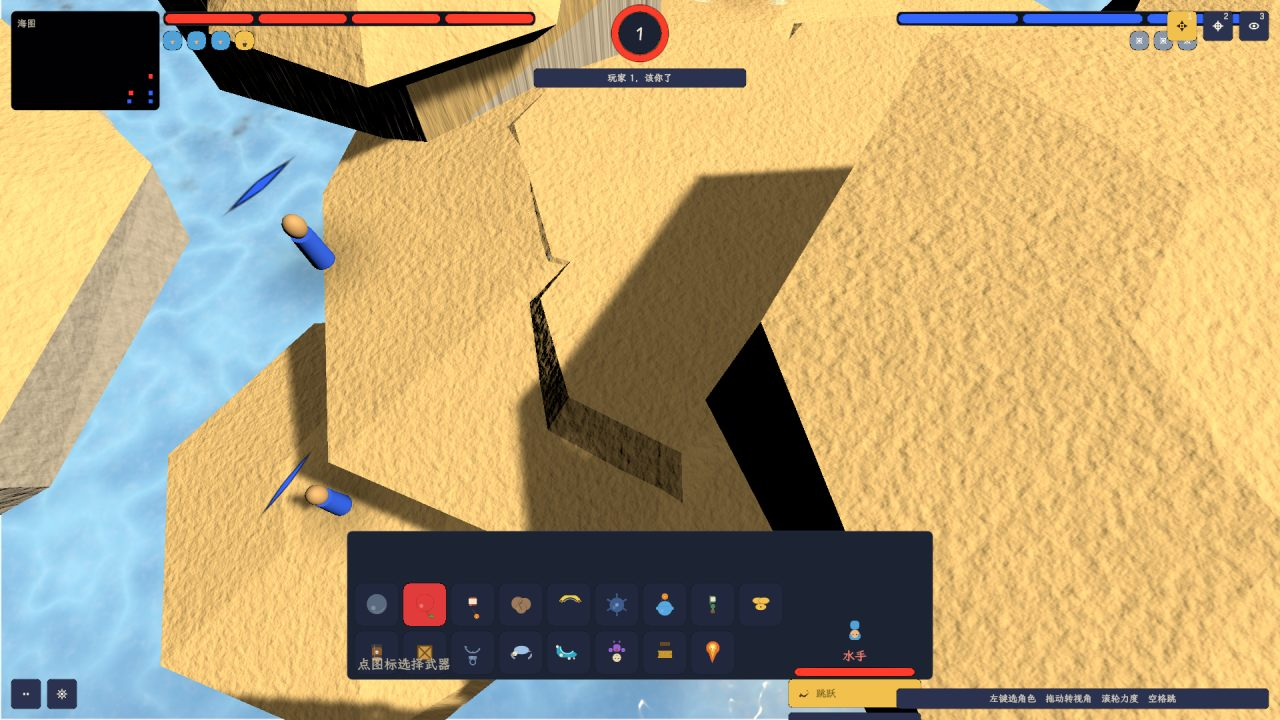
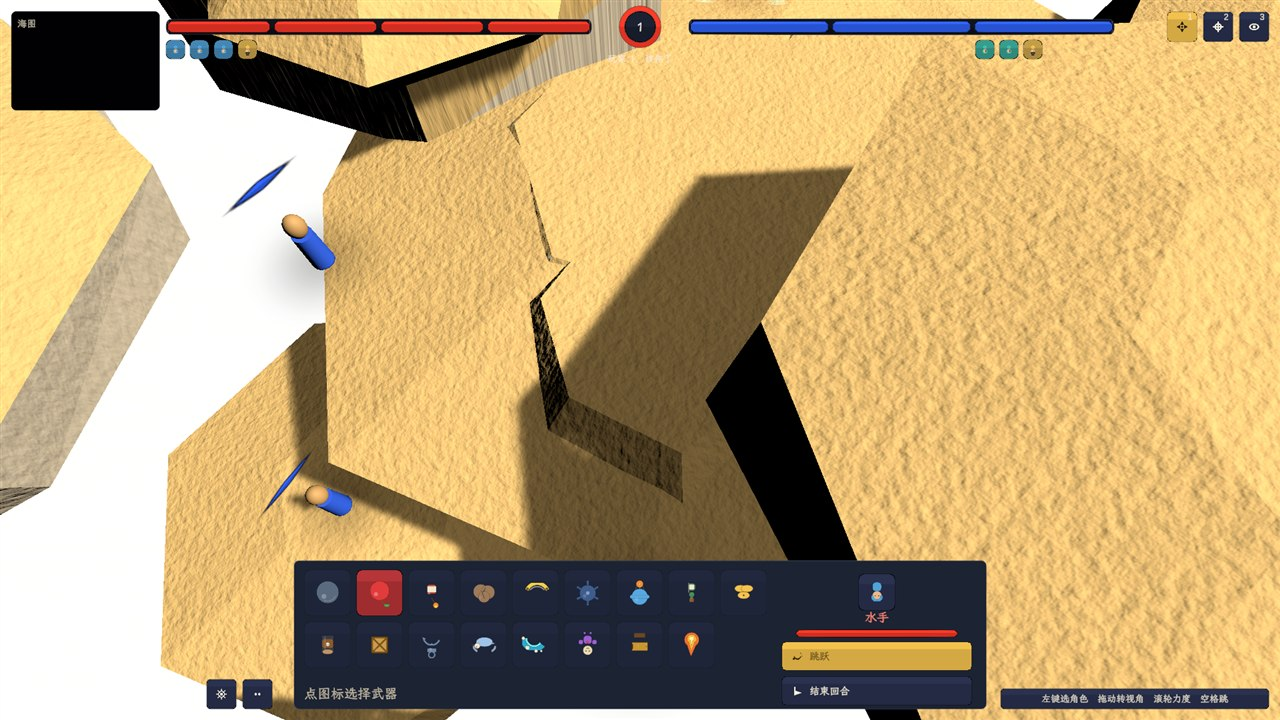
docs(ui): 设计语言文档（夜海宝箱·哈迪斯机制解构+字体规范+组件规格+管线闭环）+ HUD r6/陈列页档案入库

Changed region(s): [[0.0, 0.0, 1.0, 1.0]]

diff --git a/docs/设计/UI设计语言.md b/docs/设计/UI设计语言.md
@@ -1,0 +1,231 @@
+# UI 设计语言 · 多彩卡通（夜海宝箱）
+
+> 视觉系统的设计意图与使用纪律。所有常量的**代码真相源**是
+> `pirate-crew/Assets/Scripts/UI/Skin/UiSkin.cs`（Token）与
+> `CartoonSpriteFactory.cs`（皮肤算法），本文记录"为什么这么设计"；
+> 数值以代码为准。组件真实长相的回归自检见组件陈列页（`UiGalleryPage`，
+> 出图机位 `ui-gallery` / `ui-gallery-icons`）。
+>
+> 姊妹篇：stick-world（game-2）的 `docs/设计/UI/01-设计语言.md`——两边共享
+> "Token 单源 / 变体表 / zone 布局表 / 陈列页自检"的机制骨架，视觉语言各自独立。
+
+---
+
+## 一、视觉哲学
+
+### 1.0 多彩卡通是全局唯一皮肤
+
+主菜单、选关、船员管理与战斗 HUD 统一走**同一套皮肤栈**
+（`UiKit` 工厂 → `CartoonSpriteFactory` 平色皮肤 → `UiSkin` Token）。
+任何界面不得出现第二套材质语言（旧木板 / 羊皮纸 / 玻璃拟态栈已退役清单化）。
+**技术保证**：Editor 装配与运行时动态件共用同一工厂，皮肤/字号/动效单轨。
+
+### 1.1 夜海宝箱（核心比喻）
+
+界面的底是一口**夜海中的沉箱**：深靛蓝的近黑（`InkDeep` #1C2333）,
+里面装着宝石——17 种武器色、7 种职业色在高饱和度下发光,金色是箱体上的黄铜锚点。
+这是对《哈迪斯》UI 机制的解构与转译,哈迪斯"多彩而不乱"靠四件事:
+
+| 哈迪斯的机制 | 本项目的转译 |
+| --- | --- |
+| **色即身份**:每个神/祝福一个专属色,玩家 0.1 秒读色识物,色彩是信息压缩 | 17 武器色 / 7 职业色(内容色板),图标格底、静物、pips 同色系 |
+| **深底策略**:背景近乎纯深,彩色图标像宝珠宝石般跳出——对比让多彩成立 | `InkDeep` 夜海靛蓝做全部容器底,内容色不与其争明度 |
+| **金线统一**:无论多少种色相,金色细线作为"系统色"贯穿全部框架,多彩而不散 | `Gold` 是唯一强调色(§1.2),tintable 件自带 1px 同色系深边,全件同语言 |
+| **装饰即功能**:Art Deco 边框不是装饰,是信息容器(血条框/槽位框) | 凹槽构造线、端箍、徽章环(§3.3)——装饰都在"容器"语义上 |
+
+### 1.2 一个强调色
+
+全套 UI 只有**一个操作强调色:金**(`Gold` #F2C14E)。用于且仅用于:
+
+| 用途 | 例子 |
+| --- | --- |
+| 主行动点 | 投掷自爆 / 继续 / 再来一局 / 确认 |
+| 选中态 | 已装备武器格金框、当前模式钮 |
+| 仪式感数值 | 结算星级、武器名 |
+
+**内容色 ≠ 操作色**:队色(红/蓝)、武器色、职业色是"画在画面里的颜色",
+只上图形与图标底,**永不出现在操作按钮底上**。强调色滥发会让玩家找不到
+"该点哪"——多彩属于世界,金色属于操作。
+
+### 1.3 图标优先,文字退位
+
+原版 Flash 逆向基准就是全图标操作(跳跃/攻击皆图标)。文字只留四类:
+界面标题、结算横幅、一条操作提示、无障碍兜底(武器名在选中时显示一次)。
+**图形规范**:非文字元素对比度 ≥3:1,文字 ≥4.5:1(WCAG 2.1,测试断言锁死)。
+
+### 1.4 拟物极度抽离 + 两段卡通明暗
+
+不追求材质真实感。材质暗示只用**一道线**的程度,且只在有构造语义处用:
+
+- **两段卡通明暗**(全部件):顶亮带 + 主段略暗的灰度阶梯,乘色后保留——
+  糖豆人式"上受光"卡通体积,不用渐变、不破坏平涂纪律;
+- **凹槽构造线**(血条族):顶 1px 反光、底 30% 暗带、两端 2px 端箍——
+  木桶箍的极度抽象,凹槽是"被箍住的容器",不是一条黑缝;
+- 禁止:写实纹理、投影、内外发光、斜纹大面积铺底。
+
+---
+
+## 二、色彩系统
+
+### 2.1 基底(三档语义,同屏不得出现第四种近黑)
+
+| Token | 值 | 语义 |
+| --- | --- | --- |
+| `InkDeep` | #1C2333 | **独立容器底**:面板/武器面板/小地图/模态卡片 |
+| `InkSoft` | #2A3350 | **嵌件与浮空控件底**:chip、图标钮、pips 边框、提示条 |
+| `BarTrackInk` | #10141E | **凹槽底**(有填充压顶时):血条族专用 |
+
+### 2.2 文字与强调
+
+| Token | 值 | 用途 | 对 InkDeep 对比度 |
+| --- | --- | --- | --- |
+| `TextOnInk` | #F5EFE0 | 正文/按钮字 | 13.7:1 |
+| `TextDim` | #CFC6B0 | 辅助/角标 | 9.1:1 |
+| `Gold` | #F2C14E | 唯一强调色(§1.2) | 9.4:1 |
+| `InkOnGold` | #2A1D0E | 金底上的字 | — |
+| `Danger` | #8A1F1F | 破坏性动作底 | 白字 8.0:1 |
+
+### 2.3 队色(内容色的特例:唯一允许成对出现在 HUD 结构上的色)
+
+`TeamRed` #FF3A2A / `TeamBlue` #3366FF(图形),文字场景用提亮档
+`TeamRedText` #FF8A7A(6.9:1) / `TeamBlueText` #7FB0FF(7.0:1)。
+
+### 2.4 内容色板(色即身份的落点)
+
+- **武器 17 色**(`UiSkin.WeaponColor`):图标格底与静物主色共用一套——
+  UI 与图标天然同色系,如樱桃弹 #E23B3B、香蕉黄 #F0D048、巫毒紫 #9A5FD0;
+- **职业 7 色**(`UiSkin.CrewColor`):水手天蓝 / 炮手橙 / 狙击青 / 钩子黄铜 /
+  纵火火红 / 骷髅骨白 / 船长金;
+- 纪律:饱和度 ≥0.28(多彩下限,测试锁死)、彼此可分、不上操作按钮。
+
+---
+
+## 三、形状与装饰语言
+
+### 3.1 圆角:两档 + 全圆
+
+| 档 | Token | 值 | 用途 |
+| --- | --- | --- | --- |
+| 容器档 | `RadiusPanel` | 8 | 面板/大图标格/小地图 |
+| 控件档 | `RadiusChip` | 6 | 按钮/chip/提示条 |
+| 全圆 | — | 半径=半高 | 仅血条填充(Pill)与圆件(徽章/圆点) |
+
+### 3.2 细边
+
+1px 细边(`StrokeThin`)。tintable 件烘 0.16 灰深边(乘色后=同色系深边);
+固定色件边线比底亮一档。**无粗描边、无贴纸硬投影**。
+
+### 3.3 构件修饰语言(2026-09-19 定案,血条是标志件)
+
+| 件 | 修饰 | 语义 |
+| --- | --- | --- |
+| 全部 tintable 件 | 顶亮带 32% 高 / 主段 0.88(Pill 0.82) | 上受光的卡通体积 |
+| 血条凹槽 BarTrack | 顶 1px 反光 + 底 30% 暗带 + 两端 2px 端箍 | "被箍住的容器" |
+| 面板 PanelInk | 上沿 1px 微光 6% | 与凹槽顶反光同语言 |
+
+**切片安全约束**:修饰只依赖垂直方向或落在九宫格 border 区,任意拉伸形态
+稳定——依赖水平方向的纹理(斜纹等)会被中段拉伸抹除,一律不做。
+
+### 3.4 间距系统
+
+`Safe`(屏缘安全距)=16,`PanelPadding`=14,`Gap`=12;件内间距只取
+4 / 6 / 8 / 12 / 16 五档。
+
+---
+
+## 四、字体规范
+
+### 4.1 字族分工(三族,与 stick-world 同源的开源字库)
+
+| 族 | 字体 | 授权 | 角色 |
+| --- | --- | --- | --- |
+| 标题 | StickHand(站酷快乐体骨架+确定性扰动,`tools/fonts/gen_hand_font.py`) | OFL 1.1 | 手绘海盗字:游戏名/横幅/回合数字/面板标题 |
+| 正文 | 霞鹜文楷 Lite Medium | OFL 1.1 | 按钮/行文本/HUD 常读 |
+| 次级 | 霞鹜文楷 Lite Regular | OFL 1.1 | 说明/提示/角标 |
+
+规则:**手写体只上"仪式感短文本"**(数字、标题、横幅),长句一律霞鹜文楷
+(手写体小字号可读性差);混排时同屏至多两族。
+
+### 4.2 字号八档(`UiSkin.Font`,全项目唯一真值)
+
+| 档 | 值 | 用途 | 字族 |
+| --- | --- | --- | --- |
+| Display | 48 | 主菜单游戏名 | 标题 |
+| Banner | 36 | 结算横幅 | 标题 |
+| Title | 26 | 界面标题 | 标题 |
+| Section | 20 | 区块标题/武器名 | 次级 |
+| Hud | 18 | HUD 常读/单位名/模式 | 正文 |
+| Body | 15 | 按钮/行文本(基准) | 正文 |
+| Hint | 14 | 辅助提示 | 次级 |
+| Tiny | 13 | 角标/HP 数字/快捷键 | 次级 |
+
+### 4.3 使用纪律
+
+- **字号跟控件走**:按钮字高 ≥ 控件高的 1/3(44px 钮 ≥15px 字),
+  不做"大按钮小字"的空洞感;
+- 旧 `UiTheme.Font*` 档位经 Editor 侧映射后与本表一致,新代码一律引本表;
+- 运行时动态文本经 `UiKit.RuntimeFont`(Resources 副本)取同族字体,
+  杜绝 TMP 默认字体(无中文字形)漏网。
+
+---
+
+## 五、组件规格(构造即纪律)
+
+| 组件 | 构造 | 尺寸 | 状态/变体 |
+| --- | --- | --- | --- |
+| **合成队条** | BarTrack 凹槽 + 每单位一段 Pill(ghost+fill 双层) | 640×26/段缝 4 | 段随存活数满格重排;受击 ghost 白条慢速追 |
+| **单位 HP 条** | 同族缩小 | 250×14 | 同上 |
+| **头顶条** | 世界空间 Canvas,同族皮肤 | 0.9×0.1 世界单位 | 仅 yaw 朝相机 |
+| **图文按钮** | Chip 底+左图标+文字,**变体表 `UiKit.ButtonKind`** | 290~340×44~54 | Primary 金/Dark 墨/Danger 酒红 |
+| **图标钮** | Chip 底+居中符号+快捷键角标 | 46×46 | 同变体表 |
+| **武器图标格** | Slot 底(武器色)+静物 PNG | 70×70/缝 8 | owned=武器色底/未解锁=InkSoft 半透明/装备中=金框 |
+| **职业 pip** | Slot 底(职业色)+头像 PNG | 30×30 | 阵亡=DeadGray 底+骷髅(幂等) |
+| **回合徽章** | Ring 队色环+InkDeep 圆心+数字 | 64 | 回合切换 pop 弹跳 |
+| **面板** | PanelInk+上沿微光 | — | — |
+| **模态** | 全屏 Dim+居中卡片+按钮变体表 | 卡片随内容 | 入场卡片 pop/退场淡出 |
+
+## 六、布局原则(zone 带)
+
+- **顶部带**(垂直中心 y=500):小地图占左上角 → 红条/徽章/蓝条以屏幕中轴
+  **镜像等长**(640) → 模式三钮收右上角贴缘。互不侵犯(间隙 ≥8px);
+- **底部带**(底边线统一 y=16):[暂停/返回] → [武器面板贴底居中] → [提示条]
+  共享同一条底边线,不悬空、不骑叠;
+- **中央战场区只准小件**(徽章/提示文字/准星),大战场留给 3D;
+- **防撞合同**:装配期对顶层部件两两 AABB 检测,相交即警告
+  (`[HUD 布局防撞]`,曾因此修掉模式钮压血条/提示条压面板两起真实事故);
+- 改布局 = 改 `BattleHudBuilder` zone 常量,不手挪单个部件。
+
+## 七、图标语言
+
+三类,全部像素程序化(无 GPU 渲染依赖),双轨同源(运行时内存/烘焙 PNG):
+
+| 类 | 产线 | 规格 |
+| --- | --- | --- |
+| 武器静物 | `UiIconPainter.PaintWeapon` 17 种 | 96×96,主色=武器色,自动 1px 深边+顶部 gloss |
+| 职业头像 | `PaintCrew` 7 种,两件式底+职业标记 | 96×96 |
+| 符号 | `UiGlyphs` 平涂(准星/眼/骷髅/星/旗…) | 48×48 矢量判定 |
+
+纪律:图标即信息(色相=身份),不配文字说明除非选中;风格统一由同一 Raster
+工具类保证(深边/高光同参数)。
+
+## 八、动效语言(juice)
+
+| 动效 | 参数 | 用途 |
+| --- | --- | --- |
+| Pop 弹入 | 0.24s back-out 过冲 1.18 | 徽章/模态卡片/星级逐颗 |
+| Punch | 按钮点击 | 全部可点件 |
+| 按压下沉 | 2px | `UiPressSink` 全钮 |
+| Damage ghost | 主填充 12/s,白残影 2.2/s 只降不升 | 血条族 |
+| 面板滑入 | 淡入+24px 上移 | 模态 |
+
+纪律:动效只做缩放/位移/透明度;时长 0.09~0.24s,不做慢动画。
+
+## 九、落地与自检(管线闭环)
+
+1. **Token 单源**:一切数值出自 `UiSkin`,代码里禁止散落魔法值;
+2. **变体表**:按钮档位 `UiKit.ButtonKind` 表驱动,调用点零手配色;
+3. **组件陈列页**:`UiGalleryPage`(ui-gallery / ui-gallery-icons 机位出图)——
+   改 Token 后出一张图即可全貌回归,**组件面板是设计系统的活文档**;
+4. **防撞警告**:装配期自动检测(§六);
+5. **对比度测试**:WCAG 断言在 `UiSkinTests` 锁死,改色必跑;
+6. 本文档 + 陈列页图 + gallery 出图入 `docs/images/ui-hud-r1/` 归档。

diff --git a/docs/images/ui-hud-r1/README.md b/docs/images/ui-hud-r1/README.md
@@ -1,37 +1,44 @@
-# UI HUD 样板首拍档案（多彩卡通 · 图标优先版）
+# UI HUD 样板档案（多彩卡通 · 设计系统版）
 
-> 多彩卡通 UI 重设计（2026-09-19 用户三轮裁决）的**样板屏验收图**——战斗 HUD。
-> 原始 PNG 在 `export/art-review/uihud-r2/`（不入库），此处为压缩归档版。
-> 复现：ArtGate 全链 → 播放器构建 → `external/build/PirateCrew3D.exe -artReviewOut <dir>`。
+> 多彩卡通 UI（2026-09-19 用户三轮裁决 + game-2 管线对齐）的**样板屏验收图**——战斗 HUD 与组件陈列页。
+> 原始 PNG 在 `export/uihud-r6/`、`export/ui-gallery-r2/`（不入库），此处为压缩归档版。
+> 复现：ArtGate 全链 → 播放器构建 → `external/build/PirateCrew3D.exe -artReviewOut <dir>`，
+> 陈列页另跑 `PirateCrew3D.exe -uiGalleryOut <dir>`。
+> 设计意图与纪律见 [docs/设计/UI设计语言.md](../../设计/UI设计语言.md)。
 
-## 风格定案（三轮裁决合并）
+## 风格定案（三轮裁决 + game-2 机制对齐）
 
-- **高饱和多彩**：17 武器 / 7 职业各有语义色相（哈迪斯式深底 + 宝石彩图标 + 金强调），色表唯一真值在 `UiSkin.WeaponColor/CrewColor`（同时是图标的静物主色，UI 与图标天然同色系）。
-- **形状收敛**：小圆角（面板 8 / 按钮 6 / 图标格 10）、1px 细边、无贴纸硬投影——层级靠深底（InkDeep #1C2333）与彩色 chip 的明度差。
-- **图标优先**：武器=静物图标格（选中才显示一行名字+说明）、名册=职业头像 pips（死亡换骷髅）、回合=徽章纯数字、动作钮=符号图标（准星/眼睛/舵轮/旗/抛物弧）。
-- **juice**：按钮按压下沉+四态、血条白色 damage ghost 残影、回合徽章 pop、面板滑入、三星逐颗 pop（动效常量全在 `UiMotionRules`）。
+- **高饱和多彩**：17 武器 / 7 职业各有语义色相（哈迪斯式深底 + 宝石彩图标 + 金强调），色表唯一真值在 `UiSkin.WeaponColor/CrewColor`；**格底一律暗档**（`CellBase`：内容色向 InkDeep 压 22%——静物全彩跳出灰底）。
+- **两段卡通明暗**（r9 定案的构件修饰语言）：全部 tintable 件分「顶亮带 / 主段 0.88」灰度阶梯，乘色后保留——糖豆人式上受光体积；血槽另有顶 1px 反光 + 底 40% 暗带 + 两端 3px 端箍（"被箍住的容器"）。
+- **形状收敛**：圆角两档（容器 8 / 控件 6）+ 全圆 Pill；1px 细边；无贴纸硬投影。
+- **图标优先**：武器=静物图标格、名册=职业头像 pips、回合=徽章纯数字、动作钮=符号图标。
+- **架构纪律**（学 game-2 ui_global）：Token 单源（UiSkin）→ 按钮变体表（UiKit.ButtonKind）→ zone 布局常量 + 装配期防撞自检（`[HUD 布局防撞]`）→ 组件陈列页回归（ui-gallery 两图）。
 
 ## 判读（每张图应看到什么）
 
-| 图 | 应看到 | 实测（r2/r3） |
+| 图 | 应看到 | 实测（r6/r2） |
 | --- | --- | --- |
-| `hud-showcase.jpg` | **空白背景纯 HUD 演示**（用户裁决：3D 场景会淹没 HUD，观感验收在空白窗口看）：中亮蓝灰纯底上 HUD 全要素一览 | 通过（r3） |
-| `hud-showcase-armed.jpg` | 同上 + 底部武器面板打开 | 通过（r3，与 hud-weaponpanel 同驱动路径） |
-| `hud-fullscreen.jpg` | 顶栏双队分段血条（每存活单位一段，满格无空槽）+ 条下职业色头像 pips + 中央队色环徽章（数字）+ 徽章下提示 chip；右上三枚模式图标钮（金色=当前）；右下操作提示 chip；左下暂停/舵轮钮；左上小地图深底面板 | 全部就位；r1 的三处 bug（模式钮跑到屏幕中央/血条空槽/文案拥挤）已修 |
-| `hud-weaponpanel.jpg` | 底部中央深底圆角面板：2×9 彩色图标格（17 武器静物：炮弹/樱桃炸弹/炸药/巨石/香蕉/地雷/降落伞/酒瓶/金币/火药桶/木箱/锚/海鸥/潮汐/巫毒/大炮/火焰，逐一可辨）+ 右列（职业头像/队色名/HP 条/跳跃与结束回合图文钮）+ 底行金武器名与说明 | 通过；出图脚本 `hud-weaponpanel` 机位 = 选中单位后等面板滑入再截 |
-| `unit-closeup.jpg` | 单位头顶细血条（深槽+队色填充，水平朝镜头）；选中描边 | 通过；r1 不可见的根因 = 世界空间 Canvas 未设 worldCamera |
-| `battle-45.jpg` | 玩家视角整体协调：HUD 不遮战场主体，头顶条在 3D 中可读 | 通过 |
+| `hud-showcase.jpg` | **空白背景纯 HUD 演示**：中亮蓝灰纯底上 HUD 全要素一览 | 通过 |
+| `hud-showcase-armed.jpg` | 同上 + 武器面板打开：顶部红蓝血条**镜像等长**（各 640，中轴对称）+ 条下职业色头像 pips（**两队都有**——r9 曾因 CrewKey 漏 §4.2 符号蓝队全灰占位）+ 中央 64px 减重徽章 + 描边提示文字 + **模式三钮贴右上角**（r10 曾因 y 轴语义混用沉到垂直中部）+ 底部带三段同底边线（[暂停/返回][面板贴底][提示条]） | 通过（r6，诊断代理 12 项复核） |
+| `hud-fullscreen.jpg` | 同套 HUD 压真实战场：提示文字有描边在沙地亮部可读、部件不遮战场 | 通过（r6） |
+| `hud-weaponpanel.jpg` | 底部面板：9×2 彩色图标格（**格底暗档**，铁球/香蕉/金币可辨）+ 底行武器名/说明（**不压第二排格**——r9 曾因格子 y 多加一格高下沉 70px）+ 右列（头像带底格/名/HP/跳跃/结束回合） | 通过（r6） |
+| `battle-45.jpg` | 玩家视角整体协调 | 通过 |
+| `unit-closeup.jpg` | 头顶细血条 + 选中描边 | 通过 |
+| `ui-gallery.jpg` | **组件陈列页·控件档位**（game-2 component_gallery 等价物）：按钮三变体/图标钮/血条族（含 ghost 残影与端箍）/pips/5 档字号/8 色板/圆角两档，全部件=UiKit 真实长相（改 Token 后出此图即视觉回归） | 通过（r2） |
+| `ui-gallery-icons.jpg` | **组件陈列页·图标集**：17 武器格（暗档底+中文名）/7 职业头像/13 符号 | 通过（r2） |
 
 ## 已知取舍（待用户验收裁决）
 
-- **小地图仍是矩形深底面板**（圆形罗盘化未做——BattleMinimap 布局改动留待打回调整或波次 B）。
-- 武器未拥有格以半透明 InkSoft 显示（不隐藏），选中格金色描边。
-- 暂停/确认/结算 Modal 的观感未在静帧覆盖（动效入场需实玩验收）。
+- 小地图仍是矩形深底面板（圆形罗盘化留待裁决后做）。
+- 血槽端箍/底暗带在满血条上被填充遮挡，残血可辨（gallery 队条样例 0.34/0.62 段可直接核）。
+- 暂停/确认/结算 Modal 观感未在静帧覆盖（动效需实玩验收）。
 
 ## 关键提交
 
 - `4ff7f92` UI 地基（UiSkin/卡通皮肤工厂/符号库/UiKit/图标绘制器/动效扩展 + 15 测试）
 - `3deb7cb` HUD 重设计（BattleHud/BattleHudBuilder/BattleUiTheme 重写 + 头顶血条 + 名册退役）
 - `f89a45e` 首拍三轮修正 + 烘焙资产与 Battle 场景入库
+- `61f5a9e`/`32d1d57` showcase 机位 + 档案判据
+- 本轮（r4-r6）：zone 整带重排+防撞自检、两段明暗+凹槽构造线、按钮变体表、CrewKey §4.2 补全、格子 y 修正、陈列页+字体 Resources、设计语言文档
 
-门禁：EditMode **1160/0/1**、PlayMode **7/7 skipped=0**、四步装配链 exit 0、ArtGate 18 步全绿、播放器 shader error **0**。
+门禁：EditMode **1160/0/1**、harness 0 错（36 ECall 基线持平）、四步装配链 exit 0、ArtGate 18 步全绿、播放器 shader error **0**、防撞警告 **0**。

diff --git a/docs/README.md b/docs/README.md
@@ -33,6 +33,7 @@
 | [场景设计-战斗竞技场.md](设计/场景设计-战斗竞技场.md) | 战斗竞技场场景设计 |
 | [关卡设计语言-参照游戏全场景分析.md](设计/关卡设计语言-参照游戏全场景分析.md) | 参照游戏全场景的设计语言分析 |
 | [美术品控评审规程.md](设计/美术品控评审规程.md) | 美术品控评审流程（配 images/art-review/ 档案） |
+| [UI设计语言.md](设计/UI设计语言.md) | **UI 设计语言（多彩卡通·夜海宝箱）**——色彩/形状/字体/组件/布局/动效规范与管线闭环（改 UI 前必读） |
 | [UI-UX与中文本地化规范.md](设计/UI-UX与中文本地化规范.md) | UI/UX 与中文本地化规范 |
 
 ## 技术（怎么实现/为什么）
